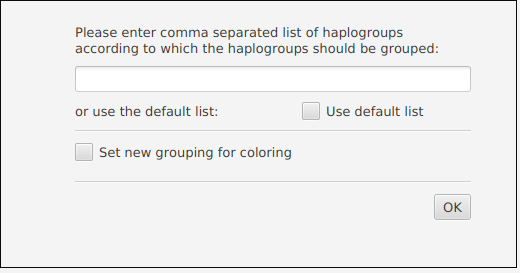
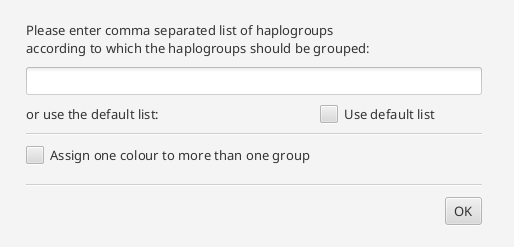
update docs

diff --git a/docs/contents/analysis.rst b/docs/contents/analysis.rst
@@ -6,10 +6,12 @@ Project based Haplogroup list
 
   > Analysis -> Define Haplogroup List
 
-This allows the useru to specify a list of Haplogroups for a project. The list will be applied whenever the user is asked for, i.e. some visualization methods, Haplogroup counting and PCA analysis. This list is also stored in the mito-project file and automatically loaded when opening the project file again.
+This allows the useru to specify a list of Haplogroups for a project. The list will be applied whenever the user is asked
+for, i.e. some visualization methods, Haplogroup counting and PCA analysis. This list is also stored in the mito-project
+file and automatically loaded when opening the project file again.
 
 
-Pairwise Fst values
+Pairwise Fst values (not yet public available, still in testing process)
 -------------------
 
   > Analysis -> Calculate pairwise Fst
@@ -62,11 +64,8 @@ visualized as heatmap.
 
 
 
-Haplogroups
+Haplogroups (not yet public available, still in developing process)
 -----------
-
-.. note::
-  Not working yet!
 
   > Analysis -> Calculate haplogroups
 
@@ -79,19 +78,24 @@ downloaded as hsd file as well.
 
 
 
-PCA
+PCA (not yet public available, still in testing process)
 ----
 
   > Analysis -> PCA analysis
 
-The principal component analysis requires a grouping of the data and the haplogroups. Both can be set in the configuration pane.
+The principal component analysis requires a grouping of the data and the haplogroups. A basic grouping of the data has to be done
+previously. The Haplogroups can be set in the configuration pane.
 The colouring can either be set like the groups (each group gets one color)
 
 .. image:: images/pcaConfig.png
    :align: center
 
 
-or several groups can be assigned to one color. In the text field, the user can specify a name. The color is set by the tool.
+or several groups can be assigned to one color. In the text field, the user can specify a name. The color is chosen by the tool.
 
 .. image:: images/pcaConfig2.png
    :align: center
+
+
+The result will be shown as a 2-dimensional plot in the visualization pane, and the counts used for the calculation in the
+statistics pane.

diff --git a/docs/contents/import.rst b/docs/contents/import.rst
@@ -11,8 +11,13 @@ Import via data upload
 mitoBench supports different file formats:
 
 * Multi-FastA (.fasta, .fa, .fas)
+
+  To upload fasta files, please align them before with an aligner of your choice.
+
 * Arlequin (.arp)
 * Haplogrep (.hsd)
+
+  The HDS file has to be tab separated. Comma or space - separated files cannot be read. HaploGrep2 automatically creates tab-separated files.
 * Excel (.xls)
 
   * First row will be used as header
@@ -85,7 +90,7 @@ Import via Drag and Drop
 All files mentioned in the section above can also be added by drag and dropping files into the table view of the mitoBench.
 
 
-Import from mitoDB
+Import from mitoDB (currently not possible)
 ------------------
 
   > File -> Import Data from DB
